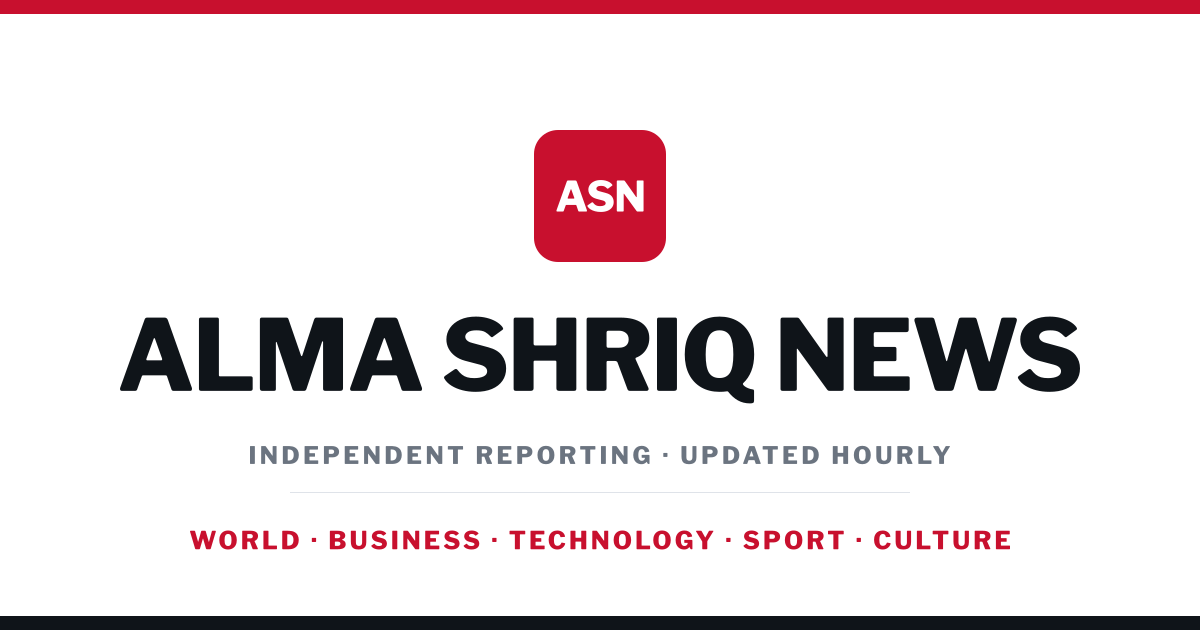
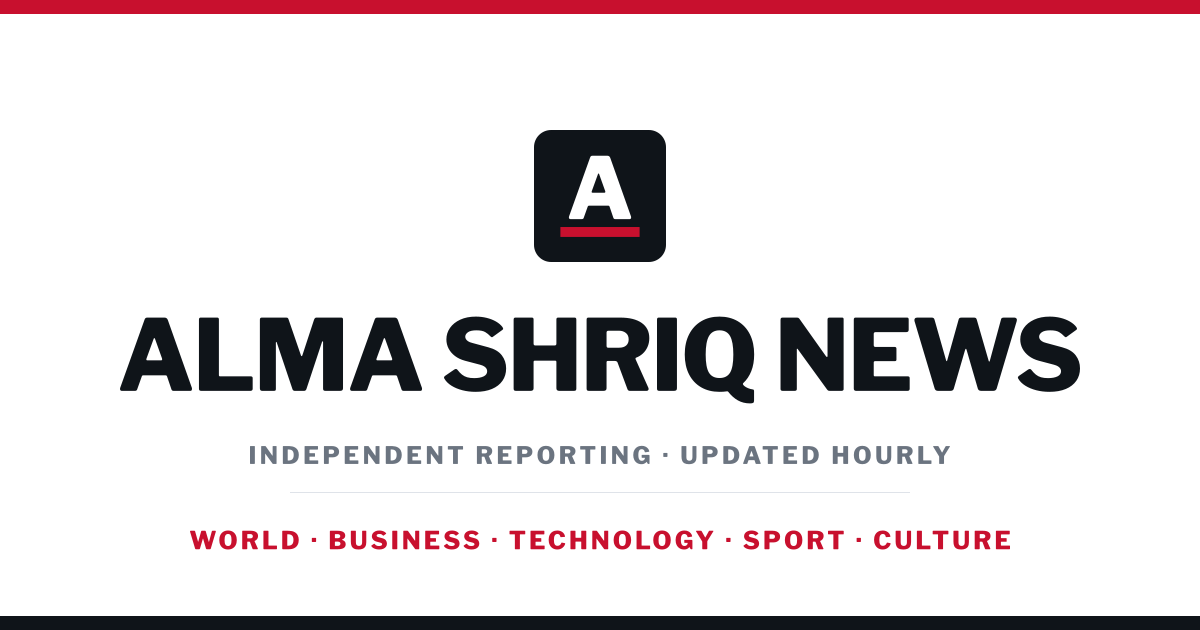
asd

Changed region(s): [[0.4317, 0.181, 0.555, 0.4222]]

diff --git a/src/components/Logo.tsx b/src/components/Logo.tsx
@@ -1,31 +1,48 @@
-import { SITE_INITIALS, SITE_NAME } from '@/lib/brand'
+import { SITE_NAME } from '@/lib/brand'
+import { MARK_GLYPH, MARK_GRID, MARK_RADIUS, MARK_RULE } from '@/lib/brand-mark'
 
 /**
- * The ASN monogram tile. Deliberately rebuilt in CSS rather than loaded as an
- * image so it matches `public/logo.svg` exactly while costing no request —
- * both are the initials in white on a signal-red rounded square.
+ * The house mark: an "A" monogram standing on the red press rule, on an ink
+ * tile. Drawn inline from the same outlines as `public/logo.svg` so the
+ * masthead, the favicon and the social card are one drawing at no extra
+ * request. `tone="inverse"` reverses the tile for the dark footer slab.
  */
 export function BrandMark({
   size = 40,
+  tone = 'ink',
   className = '',
 }: {
   size?: number
+  tone?: 'ink' | 'inverse'
   className?: string
 }) {
+  const field = tone === 'inverse' ? 'var(--bg-base)' : 'var(--ink)'
+  const letter = tone === 'inverse' ? 'var(--ink)' : 'var(--bg-base)'
+
   return (
-    <span
+    <svg
+      viewBox={`0 0 ${MARK_GRID} ${MARK_GRID}`}
+      width={size}
+      height={size}
       aria-hidden="true"
-      className={`st-brand-mark inline-flex shrink-0 items-center justify-center bg-[color:var(--accent)] font-sans font-extrabold uppercase leading-none text-white ${className}`}
-      style={{
-        width: size,
-        height: size,
-        borderRadius: Math.max(3, Math.round(size * 0.15)),
-        fontSize: size * 0.325,
-        letterSpacing: '-0.02em',
-      }}
+      className={`shrink-0 ${className}`}
     >
-      {SITE_INITIALS}
-    </span>
+      <rect
+        width={MARK_GRID}
+        height={MARK_GRID}
+        rx={MARK_RADIUS}
+        ry={MARK_RADIUS}
+        fill={field}
+      />
+      <path d={MARK_GLYPH} fill={letter} />
+      <rect
+        x={MARK_RULE.x}
+        y={MARK_RULE.y}
+        width={MARK_RULE.width}
+        height={MARK_RULE.height}
+        fill="var(--accent)"
+      />
+    </svg>
   )
 }
 

diff --git a/src/lib/brand-mark.ts b/src/lib/brand-mark.ts
@@ -1,0 +1,14 @@
+// Generated by scripts/generate-brand.mjs — run `npm run brand` to update.
+//
+// The "A" monogram on its baseline rule, on a 512-unit grid. Drawn inline by
+// <BrandMark> so the masthead tile matches public/logo.svg exactly.
+export const MARK_GRID = 512
+export const MARK_RADIUS = 66.56
+export const MARK_GLYPH =
+  'M140.76 345.6L140.76 345.6Q137.45 345.6 135.96 342.45Q134.47 339.31 136.12 334.67L136.12 334.67L217.6 106.8Q218.93 103.15 220.91 101.5Q222.9 99.84 226.88 99.84L226.88 99.84L284.51 99.84Q292.79 99.84 295.77 108.12L295.77 108.12L376.25 335.33Q377.25 338.31 376.25 341.96Q375.26 345.6 371.62 345.6L371.62 345.6L314.65 345.6Q309.35 345.6 307.69 340.3L307.69 340.3L293.12 297.24Q292.46 295.92 291.63 294.76Q290.8 293.6 288.15 293.6L288.15 293.6L212.96 293.6Q209.32 293.6 208.33 297.24L208.33 297.24L192.76 340.96Q192.1 342.95 190.44 344.28Q188.79 345.6 185.47 345.6L185.47 345.6L140.76 345.6M227.21 243.26L273.24 243.26Q277.88 243.26 276.23 236.96L276.23 236.96L252.38 170.39Q251.72 168.73 250.39 168.73Q249.07 168.73 248.4 170.39L248.4 170.39L224.23 236.96Q221.91 243.26 227.21 243.26L227.21 243.26'
+export const MARK_RULE = {
+  x: 102.4,
+  y: 376.32,
+  width: 307.2,
+  height: 38.4,
+}

diff --git a/src/components/Footer.tsx b/src/components/Footer.tsx
@@ -71,7 +71,7 @@ export default function Footer() {
         <div className="grid grid-cols-1 gap-9 md:grid-cols-12 md:gap-8">
           <div className="md:col-span-4">
             <Link href="/" className="mb-4 flex items-center gap-3">
-              <BrandMark size={40} />
+              <BrandMark size={40} tone="inverse" />
               <span className="flex flex-col text-white">
                 <Wordmark className="text-[1.35rem] leading-none" />
                 <span className="st-eyebrow mt-1.5 text-[color:var(--on-ink-muted)]">

diff --git a/src/app/globals.css b/src/app/globals.css
@@ -179,10 +179,6 @@ a:hover .headline {
   box-shadow: var(--shadow-md);
 }
 
-.st-brand-mark {
-  border-radius: var(--r-md);
-}
-
 /* ---------- rules & dividers ---------- */
 
 .st-divider {
